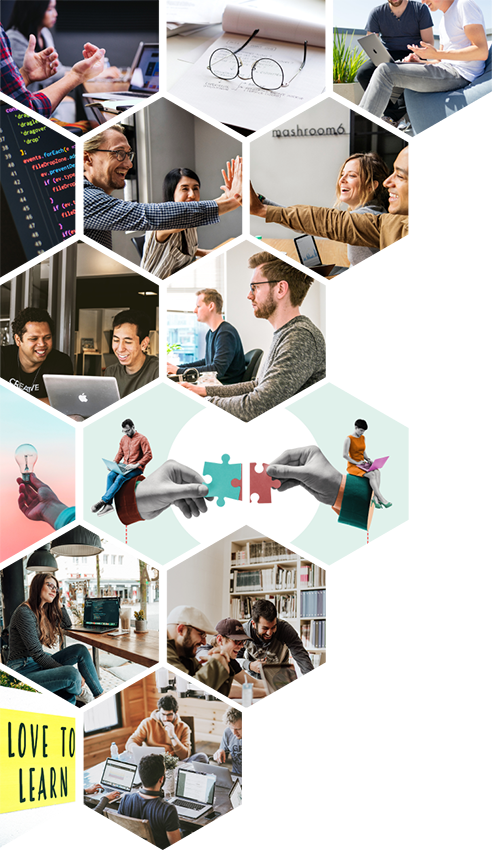
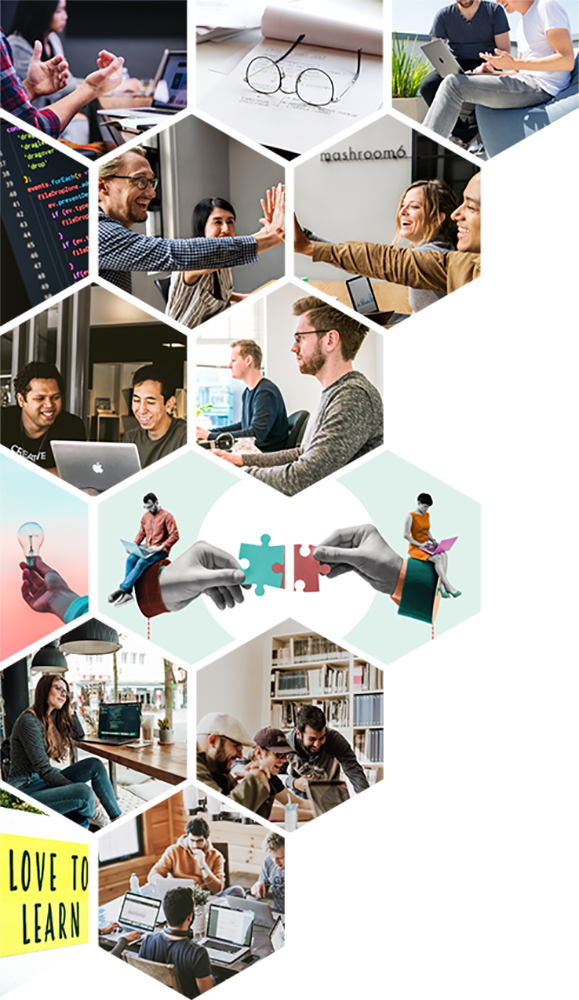
ログイン・サインアップ実装しました

diff --git a/Django_App/static/css/login.css b/Django_App/static/css/login.css
@@ -10,8 +10,15 @@ header {
     display: none;
 }
 
+/*** フェードインアニメーション ***/
+@keyframes fadeIn {
+    0% { opacity: 0; }
+    100% { opacity: 1; }
+}
+
 /* 背景画像の指定ロゴ・フォームのセンター指定 */
 body {
+    animation: fadeIn 2s forwards;
     display: flex;
     flex-direction: column;
     justify-content: center;
@@ -24,6 +31,7 @@ body {
     height: 100vh;
 }
 
+/* 左右の背景画像（六角形の画像軍）の全体指定 */
 .background-img {
     position: absolute;
     display: flex;
@@ -32,12 +40,23 @@ body {
     height: 100vh;
 }
 
+/* 左右の背景画像（六角形の画像軍）の個々の指定 */
+.background-img__left {
+    position: absolute;
+    display: flex;
+    justify-content: flex-start;
+    height:100vh;
+}
 .background-img__right {
     position: absolute;
+    display: flex;
+    align-content: flex-start;
+    height:100vh;
     right: 0;
     bottom: 0;
 }
 
+/* 背景を薄くする */
 .white-box {
     position: absolute;
     width: 100%;

diff --git a/Django_App/templates/login.html b/Django_App/templates/login.html
@@ -17,7 +17,8 @@
             <img src="{% static 'img/LoginSignin/Login-Backgroundpic_left.png' %}" alt=""> <!--左側の画像-->
         </div>
         <div class="background-img__right">
-            <img src="{% static 'img/LoginSignin/Login-Backgroundpic_right.png' %}" alt=""> <!--右側の画像-->
+            <img src="{% static 'img/LoginSignin/Login-Backgroundpic_right.png' %}" alt=""> 
+            <!--右側の画像-->
         </div>
     </div>
     <div class="white-box"></div>

diff --git a/Django_App/static/css/signup.css b/Django_App/static/css/signup.css
@@ -10,9 +10,15 @@ header {
     display: none;
 }
 
+/*** フェードインアニメーション ***/
+@keyframes fadeIn {
+    0% { opacity: 0; }
+    100% { opacity: 1; }
+}
 
 /* 背景画像の指定ロゴ・フォームのセンター指定 */
 body {
+    animation: fadeIn 2s forwards;
     display: flex;
     flex-direction: column;
     justify-content: center;
